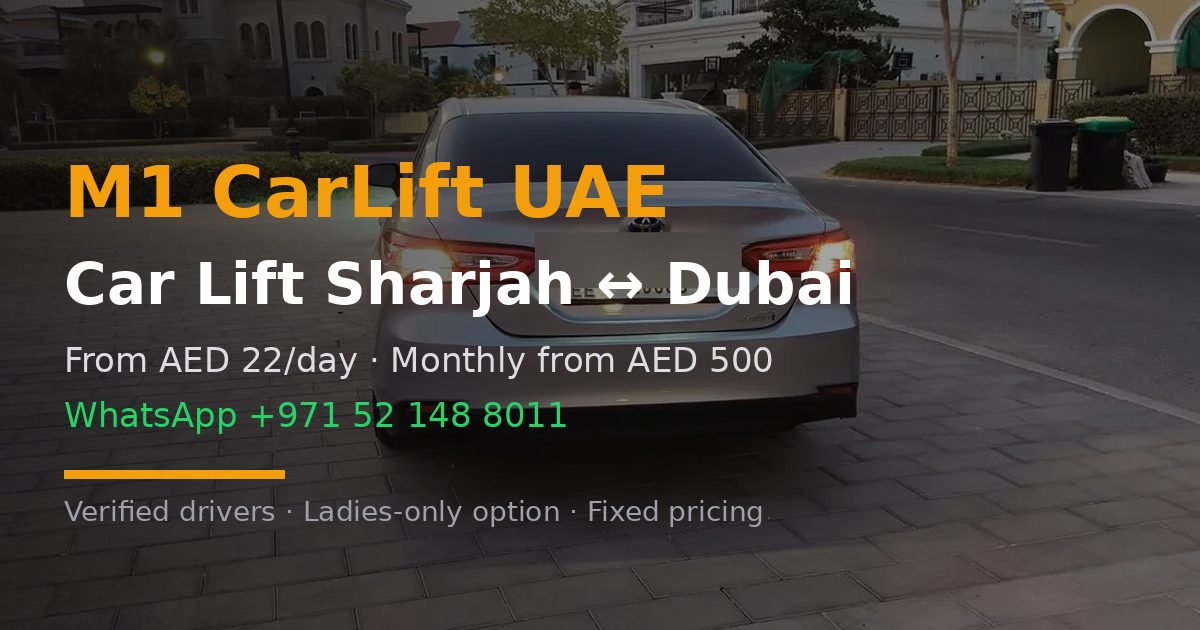
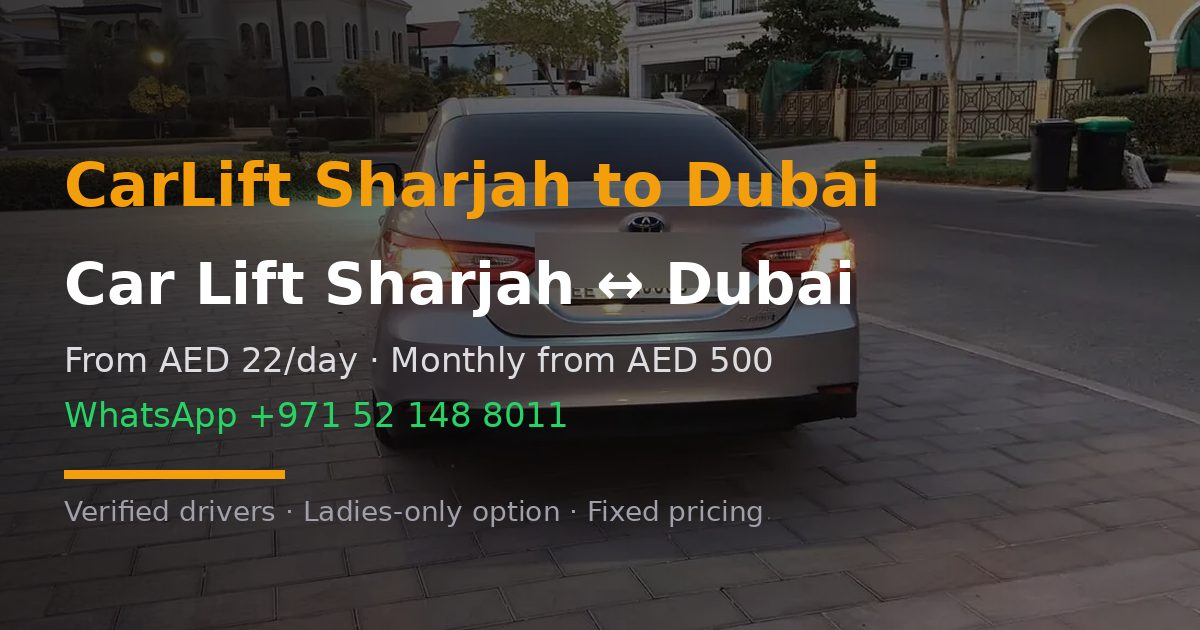
Rebrand: M1 CarLift UAE -> CarLift Sharjah to Dubai
- BUSINESS_NAME constant, all titles/H1s/descs, header, footer (via constant)
- Schema (LocalBusiness/Organization/Service), llms.txt, manifest, image alts
- OG share image rebuilt with new brand name
- NOTE: logo.webp + brand badge image still show M1 branding (need new logo file from owner)

Changed region(s): [[0.0308, 0.2413, 0.74, 0.3619]]

diff --git a/data/locations.ts b/data/locations.ts
@@ -31,7 +31,7 @@ export const LOCATIONS: LocationData[] = [
       "sharjah-to-jebel-ali", "sharjah-to-internet-city", "sharjah-to-media-city",
       "sharjah-to-silicon-oasis", "sharjah-to-ras-al-khaimah",
     ],
-    metaTitle: "Car Lift from Sharjah | Daily Routes to Dubai & Beyond | Car Lift UAE",
+    metaTitle: "Car Lift from Sharjah | Daily Routes to Dubai & Beyond | CarLift Sharjah to Dubai",
     metaDescription:
       "Book a car lift from Sharjah to Dubai, Business Bay, JLT, DIP, Al Quoz and more. Daily & monthly pricing from AED 25. Ladies option available.",
   },
@@ -53,7 +53,7 @@ export const LOCATIONS: LocationData[] = [
       "dubai-to-sharjah-saif-zone", "silicon-oasis-to-business-bay",
       "international-city-to-business-bay",
     ],
-    metaTitle: "Car Lift Dubai | Daily Commuter Routes from Dubai | Car Lift UAE",
+    metaTitle: "Car Lift Dubai | Daily Commuter Routes from Dubai | CarLift Sharjah to Dubai",
     metaDescription:
       "Car lift service from Dubai to Sharjah, Ajman, Al Ain and within Dubai. Daily from AED 25, monthly from AED 550. Verified drivers, AC comfort.",
   },
@@ -70,7 +70,7 @@ export const LOCATIONS: LocationData[] = [
       "Al Hamidiyah", "Al Nuaimiyah", "Al Mwaihat",
     ],
     routeSlugs: ["ajman-to-dubai", "ajman-to-sharjah", "dubai-to-ajman"],
-    metaTitle: "Car Lift Ajman | Daily Routes to Dubai & Sharjah | Car Lift UAE",
+    metaTitle: "Car Lift Ajman | Daily Routes to Dubai & Sharjah | CarLift Sharjah to Dubai",
     metaDescription:
       "Car lift from Ajman to Dubai and Sharjah. Daily pricing from AED 20, monthly from AED 420. Ladies-only option available.",
   },
@@ -87,7 +87,7 @@ export const LOCATIONS: LocationData[] = [
       "Mohammed Bin Zayed City", "Khalifa City", "Reem Island",
     ],
     routeSlugs: [],
-    metaTitle: "Car Lift to Abu Dhabi | Dubai–Abu Dhabi Daily Route | Car Lift UAE",
+    metaTitle: "Car Lift to Abu Dhabi | Dubai–Abu Dhabi Daily Route | CarLift Sharjah to Dubai",
     metaDescription:
       "Car lift from Dubai to Abu Dhabi from AED 55/day. Monthly packages available. Comfortable, punctual intercity service.",
   },
@@ -103,7 +103,7 @@ export const LOCATIONS: LocationData[] = [
       "RAK City", "Khuzam", "Al Qurm", "Al Hamra", "Julphar", "Saqr Port",
     ],
     routeSlugs: ["sharjah-to-ras-al-khaimah"],
-    metaTitle: "Car Lift Ras Al Khaimah | RAK–Sharjah–Dubai Routes | Car Lift UAE",
+    metaTitle: "Car Lift Ras Al Khaimah | RAK–Sharjah–Dubai Routes | CarLift Sharjah to Dubai",
     metaDescription:
       "Car lift from Ras Al Khaimah to Sharjah and Dubai. Daily and monthly pricing available. Book via WhatsApp.",
   },
@@ -119,7 +119,7 @@ export const LOCATIONS: LocationData[] = [
       "Al Ain City", "Hili", "Zakher", "Al Muwaiji", "Sandstone Hill area",
     ],
     routeSlugs: ["dubai-to-al-ain"],
-    metaTitle: "Car Lift Al Ain | Dubai to Al Ain Daily Route | Car Lift UAE",
+    metaTitle: "Car Lift Al Ain | Dubai to Al Ain Daily Route | CarLift Sharjah to Dubai",
     metaDescription:
       "Car lift from Dubai to Al Ain from AED 60/day or AED 1,100/month. Early departures to reach Al Ain before 9 AM.",
   },

diff --git a/data/images.ts b/data/images.ts
@@ -2,58 +2,58 @@ export const IMAGES = {
   // Hero — real Camry on the road (homepage hero)
   heroCar: {
     src: "/images/car-lift-toyota-camry-sharjah-dubai.webp",
-    alt: "Toyota Camry — M1 CarLift UAE car lift sedan, Sharjah to Dubai",
+    alt: "Toyota Camry — CarLift Sharjah to Dubai car lift sedan, Sharjah to Dubai",
     width: 1280,
     height: 576,
   },
   // Real fleet cars
   carLexus: {
     src: "/images/car-lift-lexus-sedan-dubai-carlift.webp",
-    alt: "White Lexus sedan — M1 CarLift UAE car lift Dubai Sharjah",
+    alt: "White Lexus sedan — CarLift Sharjah to Dubai car lift Dubai Sharjah",
     width: 960,
     height: 1280,
   },
   carCivicWhite: {
     src: "/images/car-lift-honda-civic-dubai-car-lift.webp",
-    alt: "White Honda Civic — M1 CarLift UAE car lift Dubai",
+    alt: "White Honda Civic — CarLift Sharjah to Dubai car lift Dubai",
     width: 854,
     height: 1280,
   },
   carCivicSilver: {
     src: "/images/car-lift-honda-civic-sharjah-carlift.webp",
-    alt: "Honda Civic — M1 CarLift UAE car lift Sharjah",
+    alt: "Honda Civic — CarLift Sharjah to Dubai car lift Sharjah",
     width: 1172,
     height: 1280,
   },
   carSonata: {
     src: "/images/car-lift-hyundai-sonata-dubai-sharjah.webp",
-    alt: "Hyundai Sonata sedan — M1 CarLift UAE car lift Dubai to Sharjah",
+    alt: "Hyundai Sonata sedan — CarLift Sharjah to Dubai car lift Dubai to Sharjah",
     width: 1280,
     height: 854,
   },
   carSuvNight: {
     src: "/images/car-lift-suv-sharjah-car-lift.webp",
-    alt: "M1 CarLift UAE SUV for car lift service in Sharjah",
+    alt: "CarLift Sharjah to Dubai SUV for car lift service in Sharjah",
     width: 1280,
     height: 960,
   },
   carSuvWhite: {
     src: "/images/car-lift-white-suv-dubai-car-lift.webp",
-    alt: "White SUV — M1 CarLift UAE car lift Dubai",
+    alt: "White SUV — CarLift Sharjah to Dubai car lift Dubai",
     width: 720,
     height: 1280,
   },
   // Owner photo
   ownerPhoto: {
     src: "/images/m1-carlift-owner-taimoor-mughal-sharjah-dubai.webp",
-    alt: "Taimoor Mughal — M1 CarLift UAE owner, Sharjah to Dubai car lift service",
+    alt: "Taimoor Mughal — CarLift Sharjah to Dubai owner, Sharjah to Dubai car lift service",
     width: 800,
     height: 1000,
   },
   // Brand logo badge
   brandBadge: {
     src: "/images/m1-smartline-carlift-brand-logo-uae.webp",
-    alt: "M1 Smartline CarLift UAE — trusted car lift brand",
+    alt: "CarLift Sharjah to Dubai — trusted car lift brand",
     width: 600,
     height: 597,
   },

diff --git a/app/terms/page.tsx b/app/terms/page.tsx
@@ -3,8 +3,8 @@ import Link from "next/link"
 import { BASE_URL } from "@/data/routes"
 
 export const metadata: Metadata = {
-  title: "Terms of Service | Car Lift UAE",
-  description: "Terms of service for Car Lift UAE.",
+  title: "Terms of Service | CarLift Sharjah to Dubai",
+  description: "Terms of service for CarLift Sharjah to Dubai.",
   alternates: { canonical: `${BASE_URL}/terms` },
   robots: { index: false },
 }
@@ -22,7 +22,7 @@ export default function TermsPage() {
       <p className="text-xs text-[#6b7280] mb-8">Last updated: September 2026</p>
 
       <div className="space-y-6 text-sm text-[#9ca3af] leading-relaxed">
-        <p>By booking a car lift with Car Lift UAE, you agree to the following terms.</p>
+        <p>By booking a car lift with CarLift Sharjah to Dubai, you agree to the following terms.</p>
 
         <h2 className="text-lg font-bold text-white">Bookings & Cancellations</h2>
         <p>Bookings are confirmed by WhatsApp or phone. Monthly subscriptions are non-refundable once the month has started, except where the driver fails to provide service. Daily bookings cancelled less than 2 hours before departure may be charged the trip fee.</p>
@@ -31,7 +31,7 @@ export default function TermsPage() {
         <p>Passengers are expected to be ready at the agreed pickup point at the agreed time. Excessive lateness (more than 10 minutes) may result in the vehicle departing without you. No smoking in vehicles. Respectful conduct toward drivers and co-passengers is required.</p>
 
         <h2 className="text-lg font-bold text-white">Liability</h2>
-        <p>Car Lift UAE is not liable for delays caused by traffic, accidents, or road conditions beyond our control. We will make best efforts to notify passengers of significant delays as early as possible.</p>
+        <p>CarLift Sharjah to Dubai is not liable for delays caused by traffic, accidents, or road conditions beyond our control. We will make best efforts to notify passengers of significant delays as early as possible.</p>
 
         <h2 className="text-lg font-bold text-white">Contact</h2>
         <p>For any disputes or questions, contact us via <Link href="/contact" className="text-[#f59e0b] hover:underline">WhatsApp or phone</Link>.</p>

diff --git a/app/about/page.tsx b/app/about/page.tsx
@@ -7,9 +7,9 @@ import { BASE_URL, WHATSAPP_NUMBER, PHONE_NUMBER } from "@/data/routes"
 import { IMAGES } from "@/data/images"
 
 export const metadata: Metadata = {
-  title: "About M1 CarLift UAE | Sharjah–Dubai Car Lift",
+  title: "About CarLift Sharjah to Dubai",
   description:
-    "M1 CarLift UAE founded by Taimoor Mughal in 2020. Modern sedan fleet. Verified drivers, ladies-only option, fixed pricing from AED 22/day.",
+    "CarLift Sharjah to Dubai founded by Taimoor Mughal in 2020. Modern sedan fleet. Verified drivers, ladies-only option, fixed pricing from AED 22/day.",
   alternates: { canonical: `${BASE_URL}/about` },
   openGraph: { url: `${BASE_URL}/about` },
 }
@@ -29,9 +29,9 @@ export default function AboutPage() {
         {/* Owner + brand intro */}
         <div className="grid md:grid-cols-2 gap-10 items-center mb-14">
           <div>
-            <h1 className="text-4xl font-bold text-white mb-4">About M1 CarLift UAE</h1>
+            <h1 className="text-4xl font-bold text-white mb-4">About CarLift Sharjah to Dubai</h1>
             <p className="text-[#9ca3af] text-base leading-relaxed mb-4">
-              M1 CarLift UAE was founded by <strong className="text-white">Taimoor Mughal</strong> and has been operating daily commuter car lifts on the Sharjah–Dubai corridor since 2020. What started as a small shared-ride network has grown into one of the most trusted daily commute services in the UAE, covering routes across Sharjah, Dubai, Ajman, Abu Dhabi, Ras Al Khaimah, and Al Ain.
+              CarLift Sharjah to Dubai was founded by <strong className="text-white">Taimoor Mughal</strong> and has been operating daily commuter car lifts on the Sharjah–Dubai corridor since 2020. What started as a small shared-ride network has grown into one of the most trusted daily commute services in the UAE, covering routes across Sharjah, Dubai, Ajman, Abu Dhabi, Ras Al Khaimah, and Al Ain.
             </p>
             <p className="text-[#9ca3af] text-sm leading-relaxed">
               Our fleet consists of clean, air-conditioned sedans — inspected, reliable, and driven by verified drivers.

diff --git a/app/privacy/page.tsx b/app/privacy/page.tsx
@@ -3,8 +3,8 @@ import Link from "next/link"
 import { BASE_URL } from "@/data/routes"
 
 export const metadata: Metadata = {
-  title: "Privacy Policy | Car Lift UAE",
-  description: "Privacy policy for Car Lift UAE — how we handle your data.",
+  title: "Privacy Policy | CarLift Sharjah to Dubai",
+  description: "Privacy policy for CarLift Sharjah to Dubai — how we handle your data.",
   alternates: { canonical: `${BASE_URL}/privacy` },
   robots: { index: false },
 }
@@ -22,7 +22,7 @@ export default function PrivacyPage() {
       <p className="text-xs text-[#6b7280] mb-8">Last updated: September 2026</p>
 
       <div className="space-y-6 text-sm text-[#9ca3af] leading-relaxed">
-        <p>Car Lift UAE (&ldquo;we&rdquo;, &ldquo;our&rdquo;, &ldquo;us&rdquo;) is committed to protecting your privacy. This policy explains what personal information we collect and how we use it.</p>
+        <p>CarLift Sharjah to Dubai (&ldquo;we&rdquo;, &ldquo;our&rdquo;, &ldquo;us&rdquo;) is committed to protecting your privacy. This policy explains what personal information we collect and how we use it.</p>
 
         <h2 className="text-lg font-bold text-white">Information We Collect</h2>
         <p>When you contact us via WhatsApp or our booking form, we collect your name, phone number, and pickup/drop-off details. We use this information solely to arrange your car lift service.</p>

diff --git a/app/layout.tsx b/app/layout.tsx
@@ -18,7 +18,7 @@ const GSC_TAG = process.env.NEXT_PUBLIC_GSC_TAG ?? ""
 
 export const metadata: Metadata = {
   title: {
-    default: "Car Lift Sharjah to Dubai | From AED 22/day | M1 CarLift UAE",
+    default: "Car Lift Sharjah to Dubai | From AED 22/day",
     template: "%s",
   },
   description:
@@ -43,15 +43,15 @@ export const metadata: Metadata = {
     type: "website",
     locale: "en_AE",
     url: "https://carlift.ae",
-    siteName: "Car Lift UAE",
-    title: "Car Lift Sharjah to Dubai | From AED 22/day | M1 CarLift UAE",
+    siteName: "CarLift Sharjah to Dubai",
+    title: "Car Lift Sharjah to Dubai | From AED 22/day",
     description:
       "Daily car lift Sharjah–Dubai from AED 22/day. Fixed monthly from AED 500, verified drivers, ladies option. Book on WhatsApp.",
-    images: [{ url: "/og-image.jpg", width: 1200, height: 630, alt: "M1 CarLift UAE — Car Lift Sharjah to Dubai from AED 22/day" }],
+    images: [{ url: "/og-image.jpg", width: 1200, height: 630, alt: "CarLift Sharjah to Dubai — car lift from AED 22/day" }],
   },
   twitter: {
     card: "summary_large_image",
-    title: "Car Lift Dubai Sharjah | Car Lift UAE",
+    title: "Car Lift Dubai Sharjah | CarLift Sharjah to Dubai",
     description: "Daily car lift from Sharjah to Dubai from AED 22/day or AED 500/month. Ladies option available.",
     images: ["/og-image.jpg"],
   },

diff --git a/data/routes.ts b/data/routes.ts
@@ -70,7 +70,7 @@ export const ROUTES: RouteData[] = [
     shortDescription:
       "Daily car lift from Sharjah to Dubai from AED 22/day or AED 500/month. Morning departures at 8, 9, 10 AM — evening returns at 5, 6, 7 PM. Verified drivers, AC comfort, fixed pricing.",
     longDescription:
-      "The Sharjah–Dubai corridor is one of the busiest commuting routes in the UAE. M1 CarLift UAE runs air-conditioned sedans on this route every working day. Morning pick-ups from Sharjah at 8:00, 9:00, and 10:00 AM. Evening returns from Dubai at 5:00, 6:00, and 7:00 PM. Fixed monthly pricing means no surge and no rebooking.",
+      "The Sharjah–Dubai corridor is one of the busiest commuting routes in the UAE. CarLift Sharjah to Dubai runs air-conditioned sedans on this route every working day. Morning pick-ups from Sharjah at 8:00, 9:00, and 10:00 AM. Evening returns from Dubai at 5:00, 6:00, and 7:00 PM. Fixed monthly pricing means no surge and no rebooking.",
     faqs: [
       {
         q: "How much is a car lift from Sharjah to Dubai?",
@@ -539,5 +539,5 @@ export function getRoutesByEmirate(emirate: string): RouteData[] {
 
 export const WHATSAPP_NUMBER = "971521488011"
 export const PHONE_NUMBER = "+971 52 148 8011"
-export const BUSINESS_NAME = "M1 CarLift UAE"
+export const BUSINESS_NAME = "CarLift Sharjah to Dubai"
 export const BASE_URL = "https://carlift.ae"

diff --git a/app/reviews/page.tsx b/app/reviews/page.tsx
@@ -6,9 +6,9 @@ import { TESTIMONIALS } from "@/data/testimonials"
 import { BASE_URL, WHATSAPP_NUMBER } from "@/data/routes"
 
 export const metadata: Metadata = {
-  title: "Car Lift UAE Reviews | Customer Ratings",
+  title: "CarLift Sharjah to Dubai Reviews | Ratings",
   description:
-    "Read genuine reviews from Car Lift UAE customers. 4.9/5 star rating from daily commuters on Sharjah–Dubai, Ajman–Dubai and other routes.",
+    "Read genuine reviews from CarLift Sharjah to Dubai customers. 4.9/5 star rating from daily commuters on Sharjah–Dubai, Ajman–Dubai and other routes.",
   alternates: { canonical: `${BASE_URL}/reviews` },
   openGraph: { url: `${BASE_URL}/reviews` },
 }
@@ -40,7 +40,7 @@ export default function ReviewsPage() {
         </nav>
 
         <div className="mb-10">
-          <h1 className="text-4xl font-bold text-white mb-2">Car Lift UAE — Customer Reviews</h1>
+          <h1 className="text-4xl font-bold text-white mb-2">CarLift Sharjah to Dubai — Reviews</h1>
           <div className="flex items-center gap-3 mt-2">
             <Stars n={5} />
             <span className="text-2xl font-black text-[#f59e0b]">{avg}</span>

diff --git a/app/blog/page.tsx b/app/blog/page.tsx
@@ -3,7 +3,7 @@ import Link from "next/link"
 import { BASE_URL } from "@/data/routes"
 
 export const metadata: Metadata = {
-  title: "Car Lift UAE Blog | Commute Tips & Route Guides",
+  title: "CarLift Sharjah to Dubai Blog | Commute Tips",
   description:
     "Commute guides, route comparisons, and car lift pricing updates for UAE commuters. Sharjah–Dubai, Ajman–Dubai, and more.",
   alternates: { canonical: `${BASE_URL}/blog` },
@@ -54,7 +54,7 @@ export default function BlogPage() {
         <span className="text-[#9ca3af]">Blog</span>
       </nav>
 
-      <h1 className="text-4xl font-bold text-white mb-3">Car Lift UAE — Commute Guides</h1>
+      <h1 className="text-4xl font-bold text-white mb-3">CarLift Sharjah to Dubai — Commute Guides</h1>
       <p className="text-[#9ca3af] text-base mb-10">
         Reference articles on UAE commuting costs, routes, and car lift options. Updated regularly with real pricing data.
       </p>

diff --git a/app/page.tsx b/app/page.tsx
@@ -14,7 +14,7 @@ import { WHATSAPP_NUMBER, PHONE_NUMBER } from "@/data/routes"
 import { IMAGES } from "@/data/images"
 
 export const metadata: Metadata = {
-  title: "Car Lift Sharjah to Dubai | From AED 22/day | M1 CarLift UAE",
+  title: "Car Lift Sharjah to Dubai | From AED 22/day",
   description:
     "Daily car lift Sharjah to Dubai from AED 22/day or AED 500/month. Business Bay, JLT, DIP, Media City covered. Ladies option, verified drivers.",
   alternates: { canonical: "https://carlift.ae" },
@@ -257,7 +257,7 @@ export default function HomePage() {
 
       {/* ── FAQ ── */}
       <section className="max-w-6xl mx-auto px-4 sm:px-6 pb-16">
-        <FaqAccordion faqs={GLOBAL_FAQS} title="Car Lift UAE — Common Questions" />
+        <FaqAccordion faqs={GLOBAL_FAQS} title="CarLift Sharjah to Dubai — Common Questions" />
       </section>
     </>
   )

diff --git a/app/ladies-car-lift/page.tsx b/app/ladies-car-lift/page.tsx
@@ -79,7 +79,7 @@ export default function LadiesCarLiftPage() {
               <span className="text-xs font-semibold text-[#f59e0b]">👩 Women-only vehicles · Female drivers</span>
             </div>
 
-            <h1 className="text-4xl font-bold text-white mb-3">Ladies-Only Car Lift UAE</h1>
+            <h1 className="text-4xl font-bold text-white mb-3">Ladies-Only Car Lift</h1>
 
             <p className="text-base text-[#9ca3af] leading-relaxed mb-6 border-l-2 border-[#f59e0b] pl-4">
               A dedicated ladies car lift is available on all routes including Sharjah–Dubai, Ajman–Dubai, and Sharjah–Business Bay. Verified female drivers, women-only vehicles, same fixed pricing as our standard service.

diff --git a/app/contact/page.tsx b/app/contact/page.tsx
@@ -4,9 +4,9 @@ import LeadForm from "@/components/LeadForm"
 import { BASE_URL, WHATSAPP_NUMBER, PHONE_NUMBER } from "@/data/routes"
 
 export const metadata: Metadata = {
-  title: "Contact Car Lift UAE | Book a Car Lift",
+  title: "Contact CarLift Sharjah to Dubai | Book Now",
   description:
-    "Contact Car Lift UAE to book a daily or monthly car lift. WhatsApp, call, or fill in the quick booking form. We reply within 1 hour.",
+    "Contact CarLift Sharjah to Dubai to book a daily or monthly car lift. WhatsApp, call, or fill in the quick booking form. We reply within 1 hour.",
   alternates: { canonical: `${BASE_URL}/contact` },
   openGraph: { url: `${BASE_URL}/contact` },
 }
